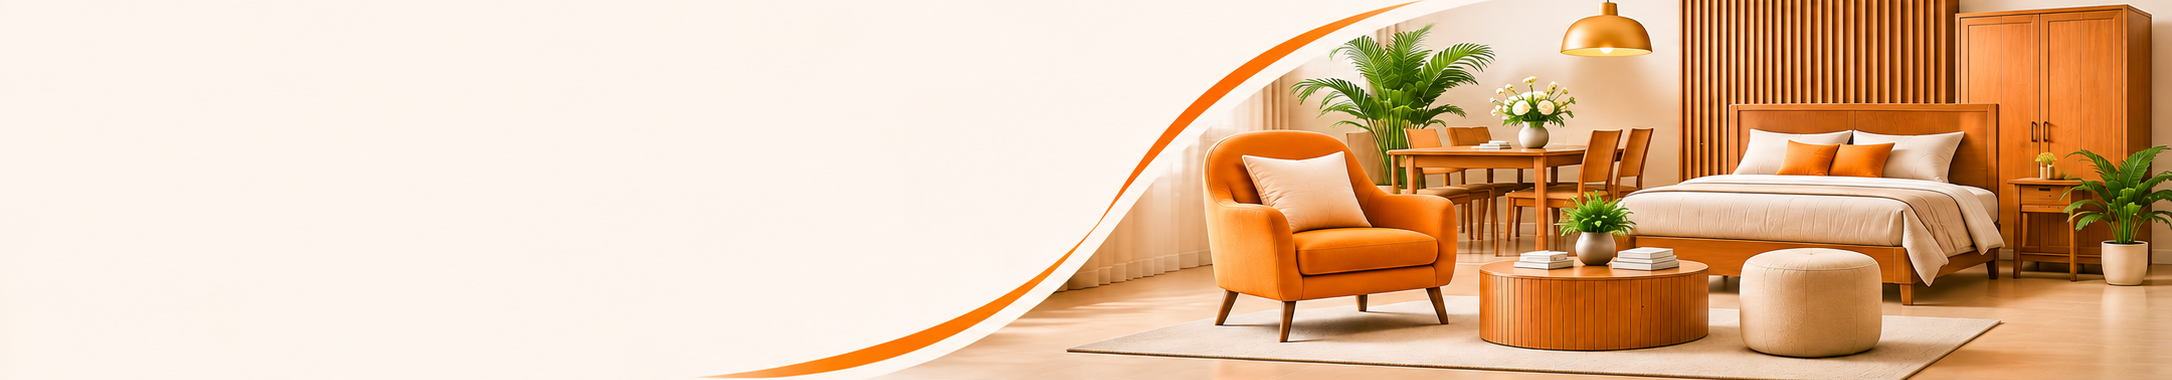
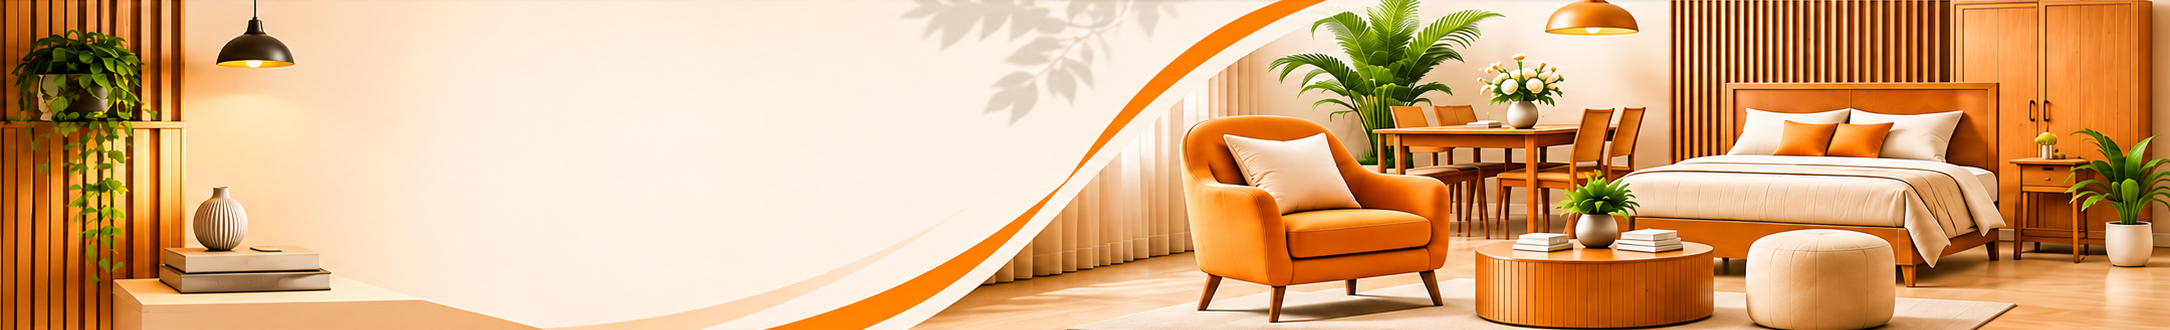
fix it

diff --git a/Frontend/src/Components/CommenComponents/Navbar.jsx b/Frontend/src/Components/CommenComponents/Navbar.jsx
@@ -151,8 +151,8 @@ const Navbar = () => {
   const navClass = ({ isActive }) =>
     `whitespace-nowrap px-1.5 py-2 text-[13px] font-semibold transition-colors ${
       isActive
-        ? "relative text-orange-600 after:absolute after:bottom-0 after:left-1.5 after:right-1.5 after:h-0.5 after:rounded after:bg-orange-600"
-        : "text-slate-700 hover:text-orange-600"
+        ? "text-[#e87500]"
+        : "text-[#351d0e] hover:text-[#e87500]"
     }`;
 
   const handleSearch = (event) => {
@@ -166,22 +166,24 @@ const Navbar = () => {
 
   return (
 
-    <nav className="sticky top-0 z-50 border-b border-orange-100 bg-white/95 shadow-sm">
+    <nav className="sticky top-0 z-50 rounded-b-[28px] border-b border-[#f0dfc9] bg-[#fffaf5]/95 shadow-[0_8px_24px_rgba(74,42,19,0.13)] backdrop-blur-md lg:rounded-b-[38px]">
       <PageContainer>
-        <div className="flex min-h-[72px] items-center justify-between gap-3">
+        <div className="flex min-h-[76px] items-center justify-between gap-2 sm:min-h-[84px] sm:gap-3">
           <Link
             to="/"
             className="flex shrink-0 items-center"
             aria-label="Q Living Furniture home"
           >
             <img
-              src="/images/logo.png"
-              alt="Q Furnitures"
-              className="h-auto max-h-14 w-40 object-contain sm:w-44"
+              src="/images/logo123.png"
+              alt="Q Living Furniture"
+              className="h-auto max-h-14 w-40 object-contain sm:max-h-16 sm:w-52 xl:w-56"
             />
           </Link>
 
-          <div className="hidden flex-1 items-center justify-center gap-3 lg:flex xl:gap-5">
+          <span aria-hidden="true" className="hidden h-10 w-px shrink-0 bg-[#dfcbb5] xl:block" />
+
+          <div className="hidden flex-1 items-center justify-center gap-1.5 lg:flex xl:gap-3">
             <NavLink to="/" end className={navClass}>Home</NavLink>
             <NavLink to="/shop" className={({ isActive }) => `${navClass({ isActive })} inline-flex items-center gap-1`}>
               Shop 
@@ -194,7 +196,7 @@ const Navbar = () => {
                   setCategoryMenu(!categoryMenu);
                   setRoomsMenu(false);
                 }}
-                className="inline-flex items-center gap-1 whitespace-nowrap px-1.5 py-2 text-[13px] font-semibold text-slate-700 transition-colors hover:text-orange-600"
+                className="inline-flex items-center gap-1 whitespace-nowrap px-1.5 py-2 text-[13px] font-semibold text-[#351d0e] transition-colors hover:text-[#e87500]"
                 aria-expanded={categoryMenu}
               >
                 Collections
@@ -230,7 +232,7 @@ const Navbar = () => {
                   setRoomsMenu(!roomsMenu);
                   setCategoryMenu(false);
                 }}
-                className="inline-flex items-center gap-1 whitespace-nowrap px-1.5 py-2 text-[13px] font-semibold text-slate-700 transition-colors hover:text-orange-600"
+                className="inline-flex items-center gap-1 whitespace-nowrap px-1.5 py-2 text-[13px] font-semibold text-[#351d0e] transition-colors hover:text-[#e87500]"
                 aria-expanded={roomsMenu}
               >
                 Rooms
@@ -260,18 +262,27 @@ const Navbar = () => {
             </NavLink>
             <NavLink to="/about" className={navClass}>Interior Ideas</NavLink>
             <NavLink to="/about" className={navClass}>About Us</NavLink>
-            <NavLink to="/contactus" className={navClass}>Contact Us</NavLink>
+            <NavLink
+              to="/contactus"
+              className={({ isActive }) =>
+                `whitespace-nowrap rounded-full bg-[#ed720a] px-4 py-2.5 text-[13px] font-bold text-white shadow-sm transition hover:bg-[#d65e00] xl:px-5 ${
+                  isActive ? "ring-2 ring-[#ed720a]/25 ring-offset-2" : ""
+                }`
+              }
+            >
+              Contact Us
+            </NavLink>
           </div>
 
-          <div className="flex shrink-0 items-center gap-3 text-slate-800 sm:gap-4">
-            <div className="hidden items-center gap-3 sm:flex">
+          <div className="flex shrink-0 items-center gap-1 text-[#351d0e] sm:gap-2 lg:border-l lg:border-[#dfcbb5] lg:pl-3 xl:gap-3 xl:pl-5">
+            <div className="hidden items-center gap-1 sm:flex xl:gap-2">
             <div className="relative">
               <button
                 type="button"
                 onClick={() => setSearchOpen(!searchOpen)}
                 aria-label="Search furniture"
                 aria-expanded={searchOpen}
-                className="flex h-9 w-9 items-center justify-center rounded-full transition hover:bg-orange-50 hover:text-orange-600"
+                className="flex h-10 w-10 items-center justify-center rounded-full transition hover:bg-[#fff0df] hover:text-[#e87500]"
               >
                 <Search size={21} />
               </button>
@@ -297,7 +308,7 @@ const Navbar = () => {
               type="button"
               onClick={openWishlist}
               aria-label="Open wishlist"
-              className="relative flex h-9 w-9 items-center justify-center rounded-full transition hover:bg-orange-50 hover:text-orange-600"
+              className="relative flex h-10 w-10 items-center justify-center rounded-full transition hover:bg-[#fff0df] hover:text-[#e87500]"
             >
               <Heart size={21} />
               {wishlist.length > 0 && (
@@ -311,7 +322,7 @@ const Navbar = () => {
               type="button"
               onClick={openCart}
               aria-label="Open cart"
-              className="relative flex h-9 w-9 items-center justify-center rounded-full transition hover:bg-orange-50 hover:text-orange-600"
+              className="relative flex h-10 w-10 items-center justify-center rounded-full transition hover:bg-[#fff0df] hover:text-[#e87500]"
             >
               <ShoppingCart size={21} />
               {cart.length > 0 && (
@@ -327,9 +338,9 @@ const Navbar = () => {
                   type="button"
                   onClick={() => setUserMenu(!userMenu)}
                   aria-label={`Open account menu for ${profileName}`}
-                  className="flex h-9 w-9 items-center justify-center rounded-full bg-orange-100 text-sm font-bold text-orange-700 transition hover:bg-orange-200"
+                  className="flex h-10 w-10 items-center justify-center rounded-full bg-[#f7e4ca] text-sm font-bold text-[#351d0e] transition hover:bg-[#f1d3ac]"
                 >
-                  {profileInitial}
+                  <User size={20} />
                 </button>
                 {userMenu && (
                   <div className="absolute right-0 top-full z-50 mt-2 w-48 overflow-hidden rounded-xl border border-orange-100 bg-white py-1 shadow-xl">
@@ -352,7 +363,7 @@ const Navbar = () => {
                 )}
               </div>
             ) : (
-              <Link to="/login" aria-label="Sign in" className="flex h-9 w-9 items-center justify-center rounded-full transition hover:bg-orange-50 hover:text-orange-600">
+              <Link to="/login" aria-label="Sign in" className="flex h-10 w-10 items-center justify-center rounded-full bg-[#f7e4ca] transition hover:bg-[#f1d3ac] hover:text-[#e87500]">
                 <User size={21} />
               </Link>
             )}
@@ -362,7 +373,7 @@ const Navbar = () => {
               <Link
                 to="/account"
                 aria-label="My account"
-                className="flex h-9 w-9 items-center justify-center rounded-full bg-orange-100 text-sm font-bold text-orange-700 transition hover:bg-orange-200 sm:hidden"
+                className="flex h-10 w-10 items-center justify-center rounded-full bg-[#f7e4ca] text-sm font-bold text-[#351d0e] transition hover:bg-[#f1d3ac] sm:hidden"
               >
                 {profileInitial}
               </Link>
@@ -372,7 +383,7 @@ const Navbar = () => {
               type="button"
               onClick={() => mobileMenu ? closeMobileMenu() : setMobileMenu(true)}
               aria-label={mobileMenu ? "Close menu" : "Open menu"}
-              className="flex h-9 w-9 items-center justify-center rounded-full text-slate-800 transition hover:bg-orange-50 hover:text-orange-600 lg:hidden"
+              className="flex h-10 w-10 items-center justify-center rounded-full text-[#351d0e] transition hover:bg-[#fff0df] hover:text-[#e87500] lg:hidden"
             >
               {mobileMenu ? <X size={24} /> : <Menu size={24} />}
             </button>
@@ -420,7 +431,7 @@ const Navbar = () => {
 
       )}
       {mobileMenu && (
-        <div className="fixed inset-x-0 bottom-0 top-[72px] z-50 lg:hidden">
+        <div className="fixed inset-x-0 bottom-0 top-[76px] z-50 sm:top-[84px] lg:hidden">
 
           {/* Overlay */}
           <div
